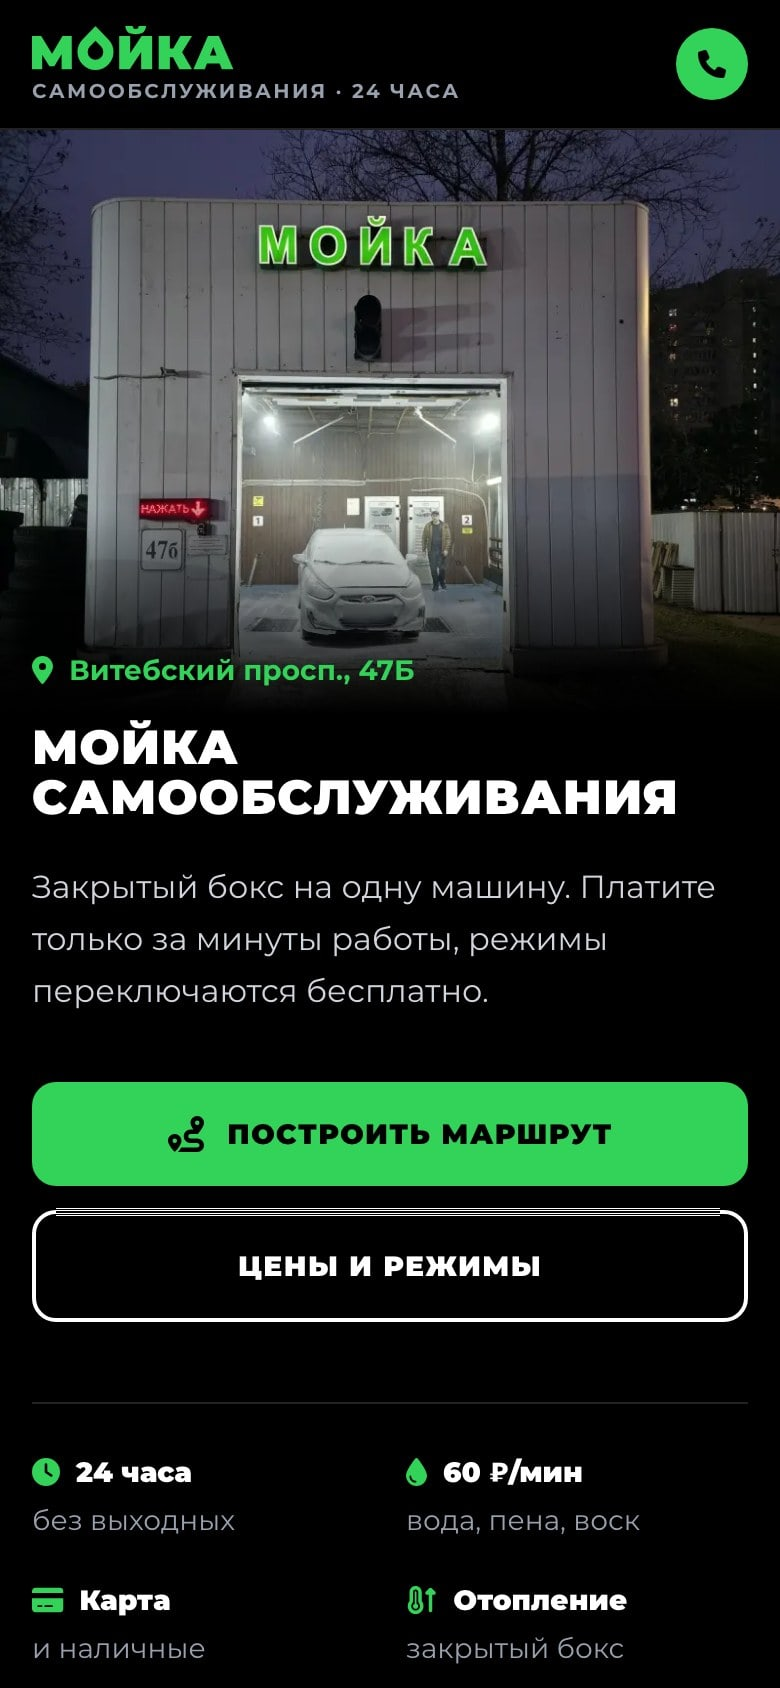
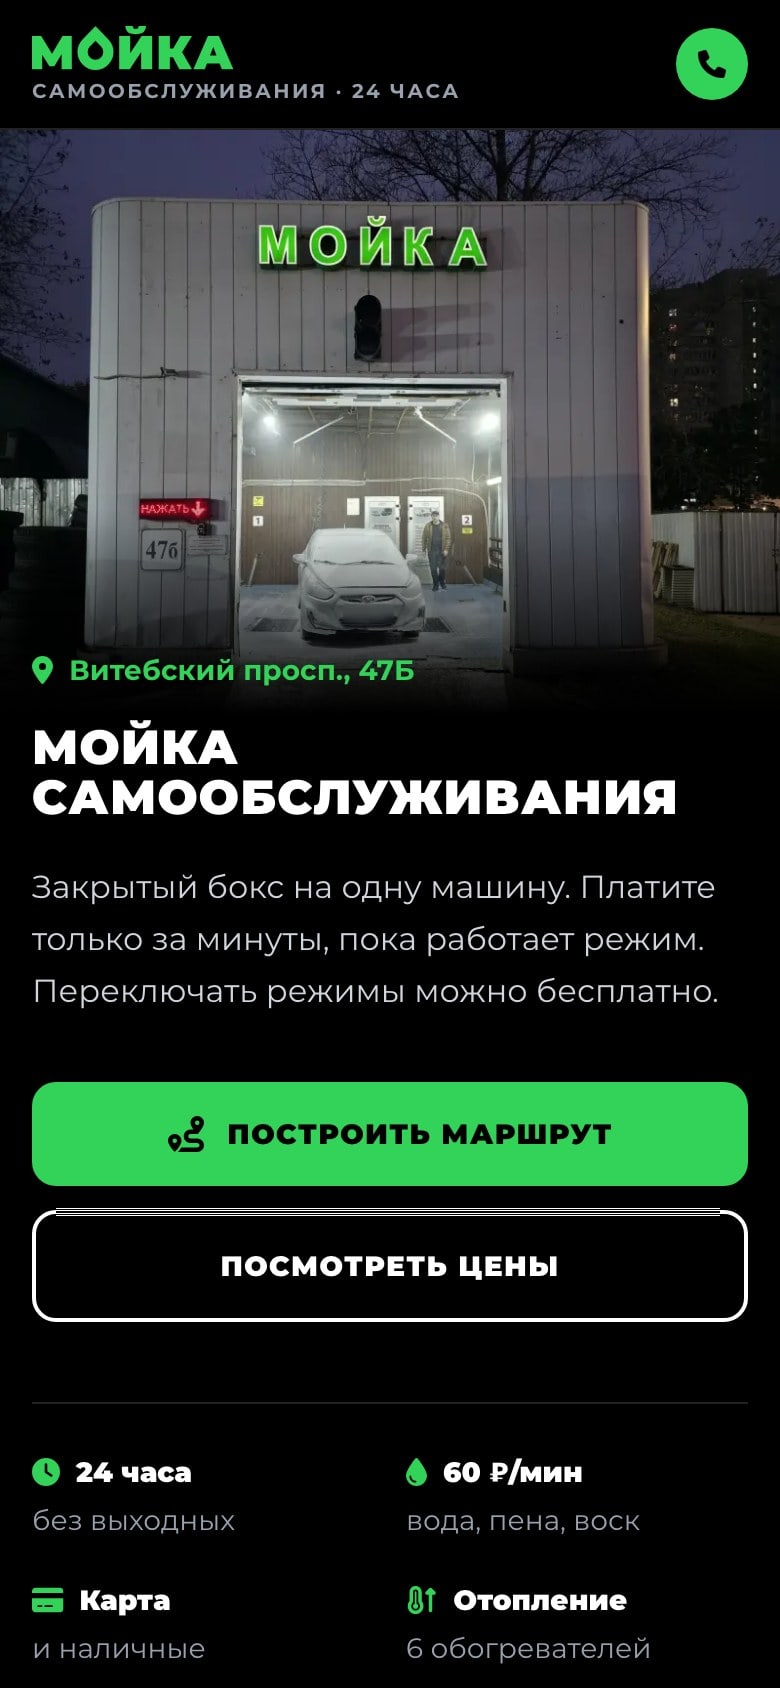
Мойка: свежие кадры с новыми текстами и стрелками маршрута
Кадры moyka-desktop и moyka-mobile пересняты с живого сайта 06.11.2026:
подписи без лишних тире, «Посмотреть цены» и «6 обогревателей» на первом
экране, два фото «Как подъехать» со стрелками, ролик к шагу 6 с пылесосом
в салоне. Страница в gzip -9 теперь 25 271 байт (было 24 528) - 25 КБ;
своего JS 2 КБ, роликов 6 - как было.

Changed region(s): [[0.0615, 0.5545, 0.8923, 0.6161], [0.2769, 0.7393, 0.7077, 0.7701], [0.5231, 0.955, 0.8308, 0.9858]]

diff --git a/src/data/works.ts b/src/data/works.ts
@@ -186,7 +186,7 @@ export const works: Work[] = [
       "Поисковики и ИИ-ассистенты понимают, что это за мойка, где она находится и сколько стоит",
     ],
     metrics: [
-      { value: "24 КБ", label: "весит страница вместе с оформлением (в сжатом виде)" },
+      { value: "25 КБ", label: "весит страница вместе с оформлением (в сжатом виде)" },
       { value: "6", label: "анимированных роликов к инструкции" },
       { value: "2 КБ", label: "своего JavaScript-кода - ничего лишнего" },
     ],
